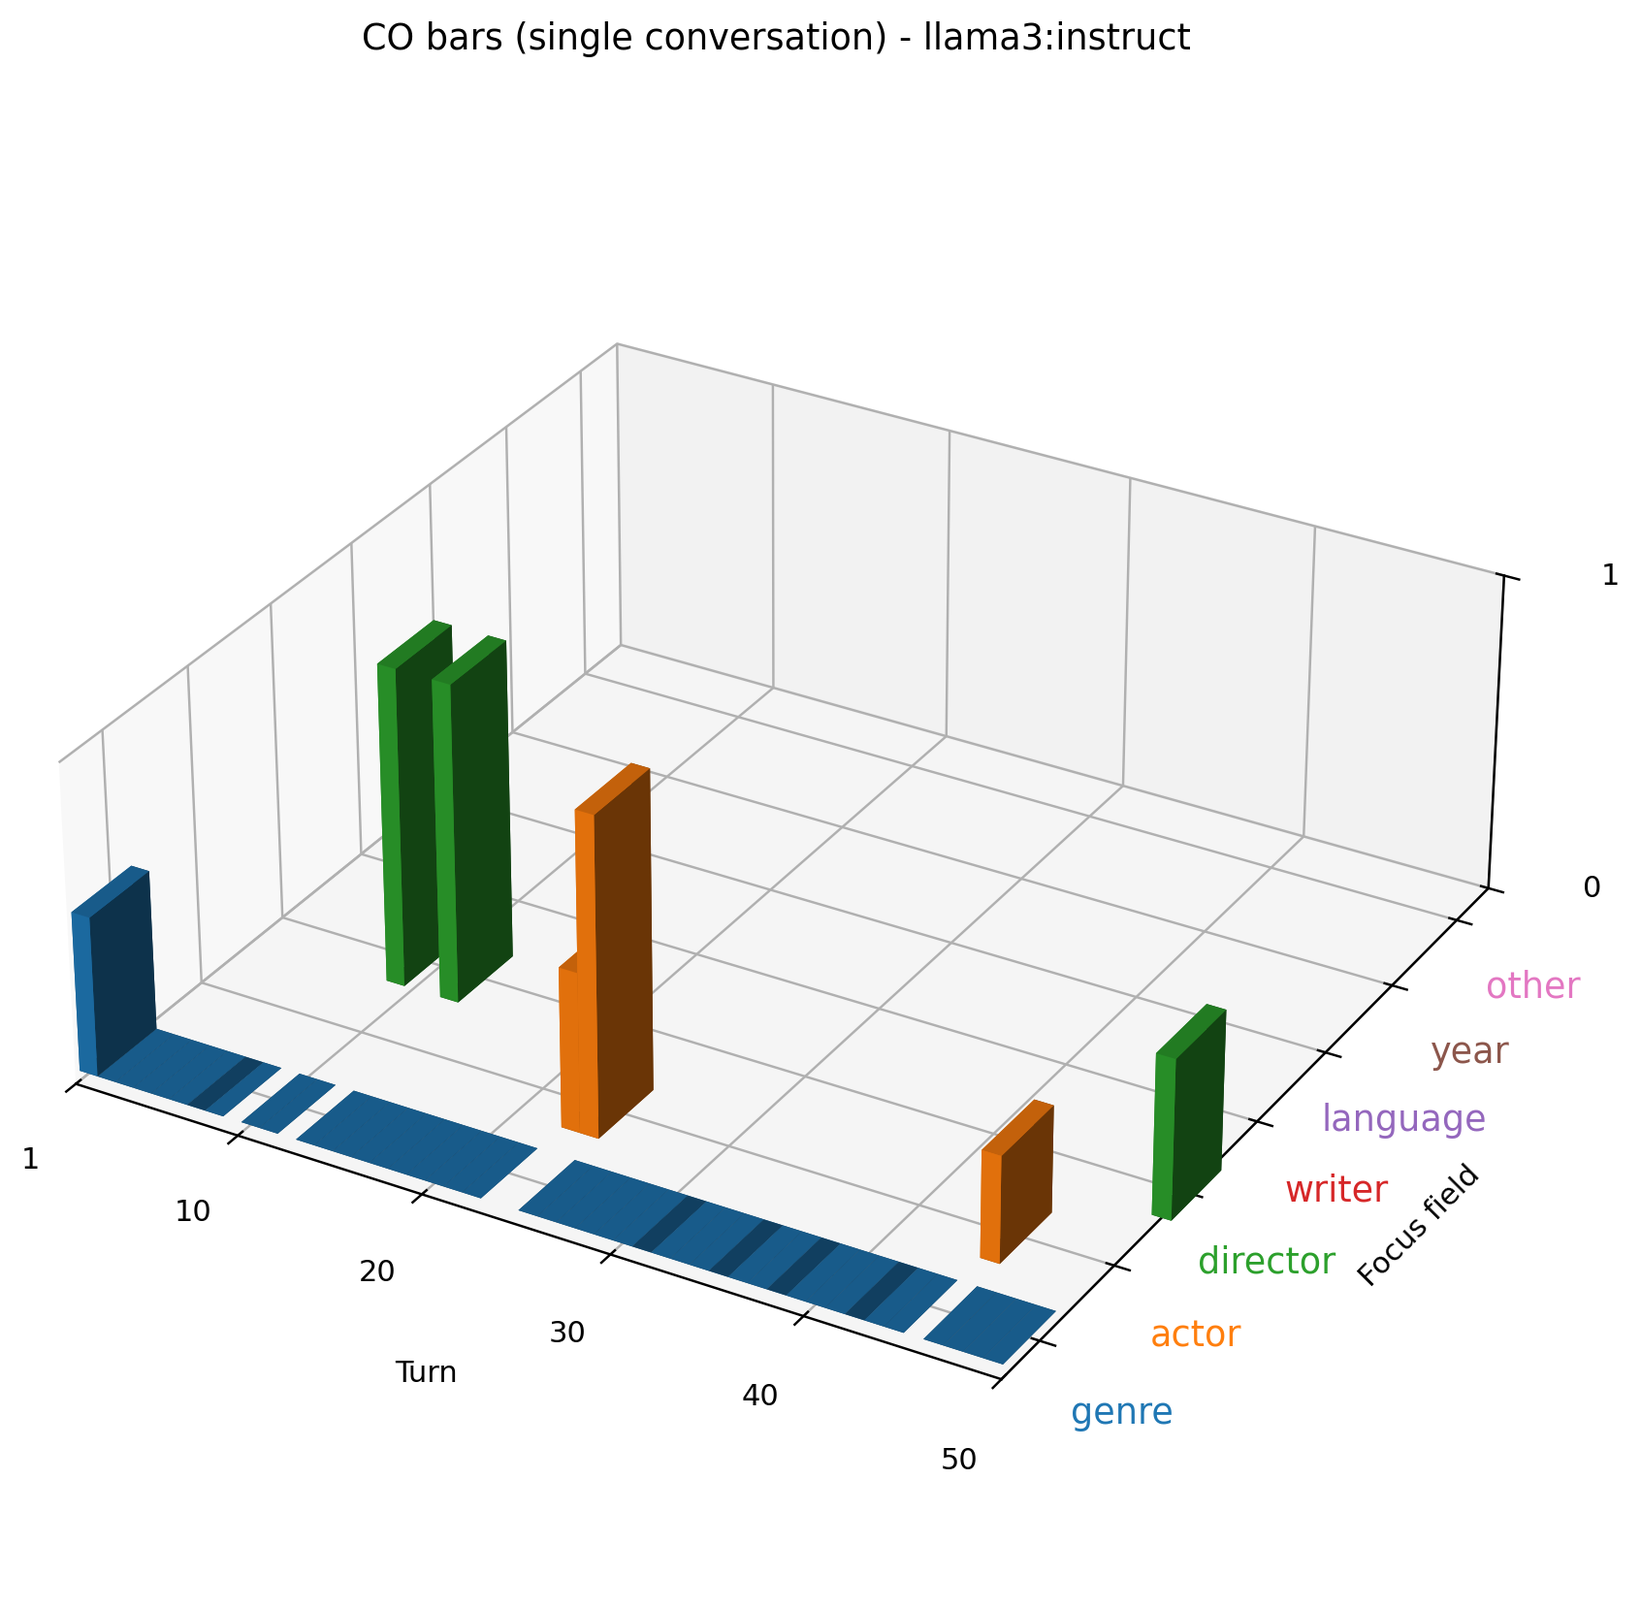
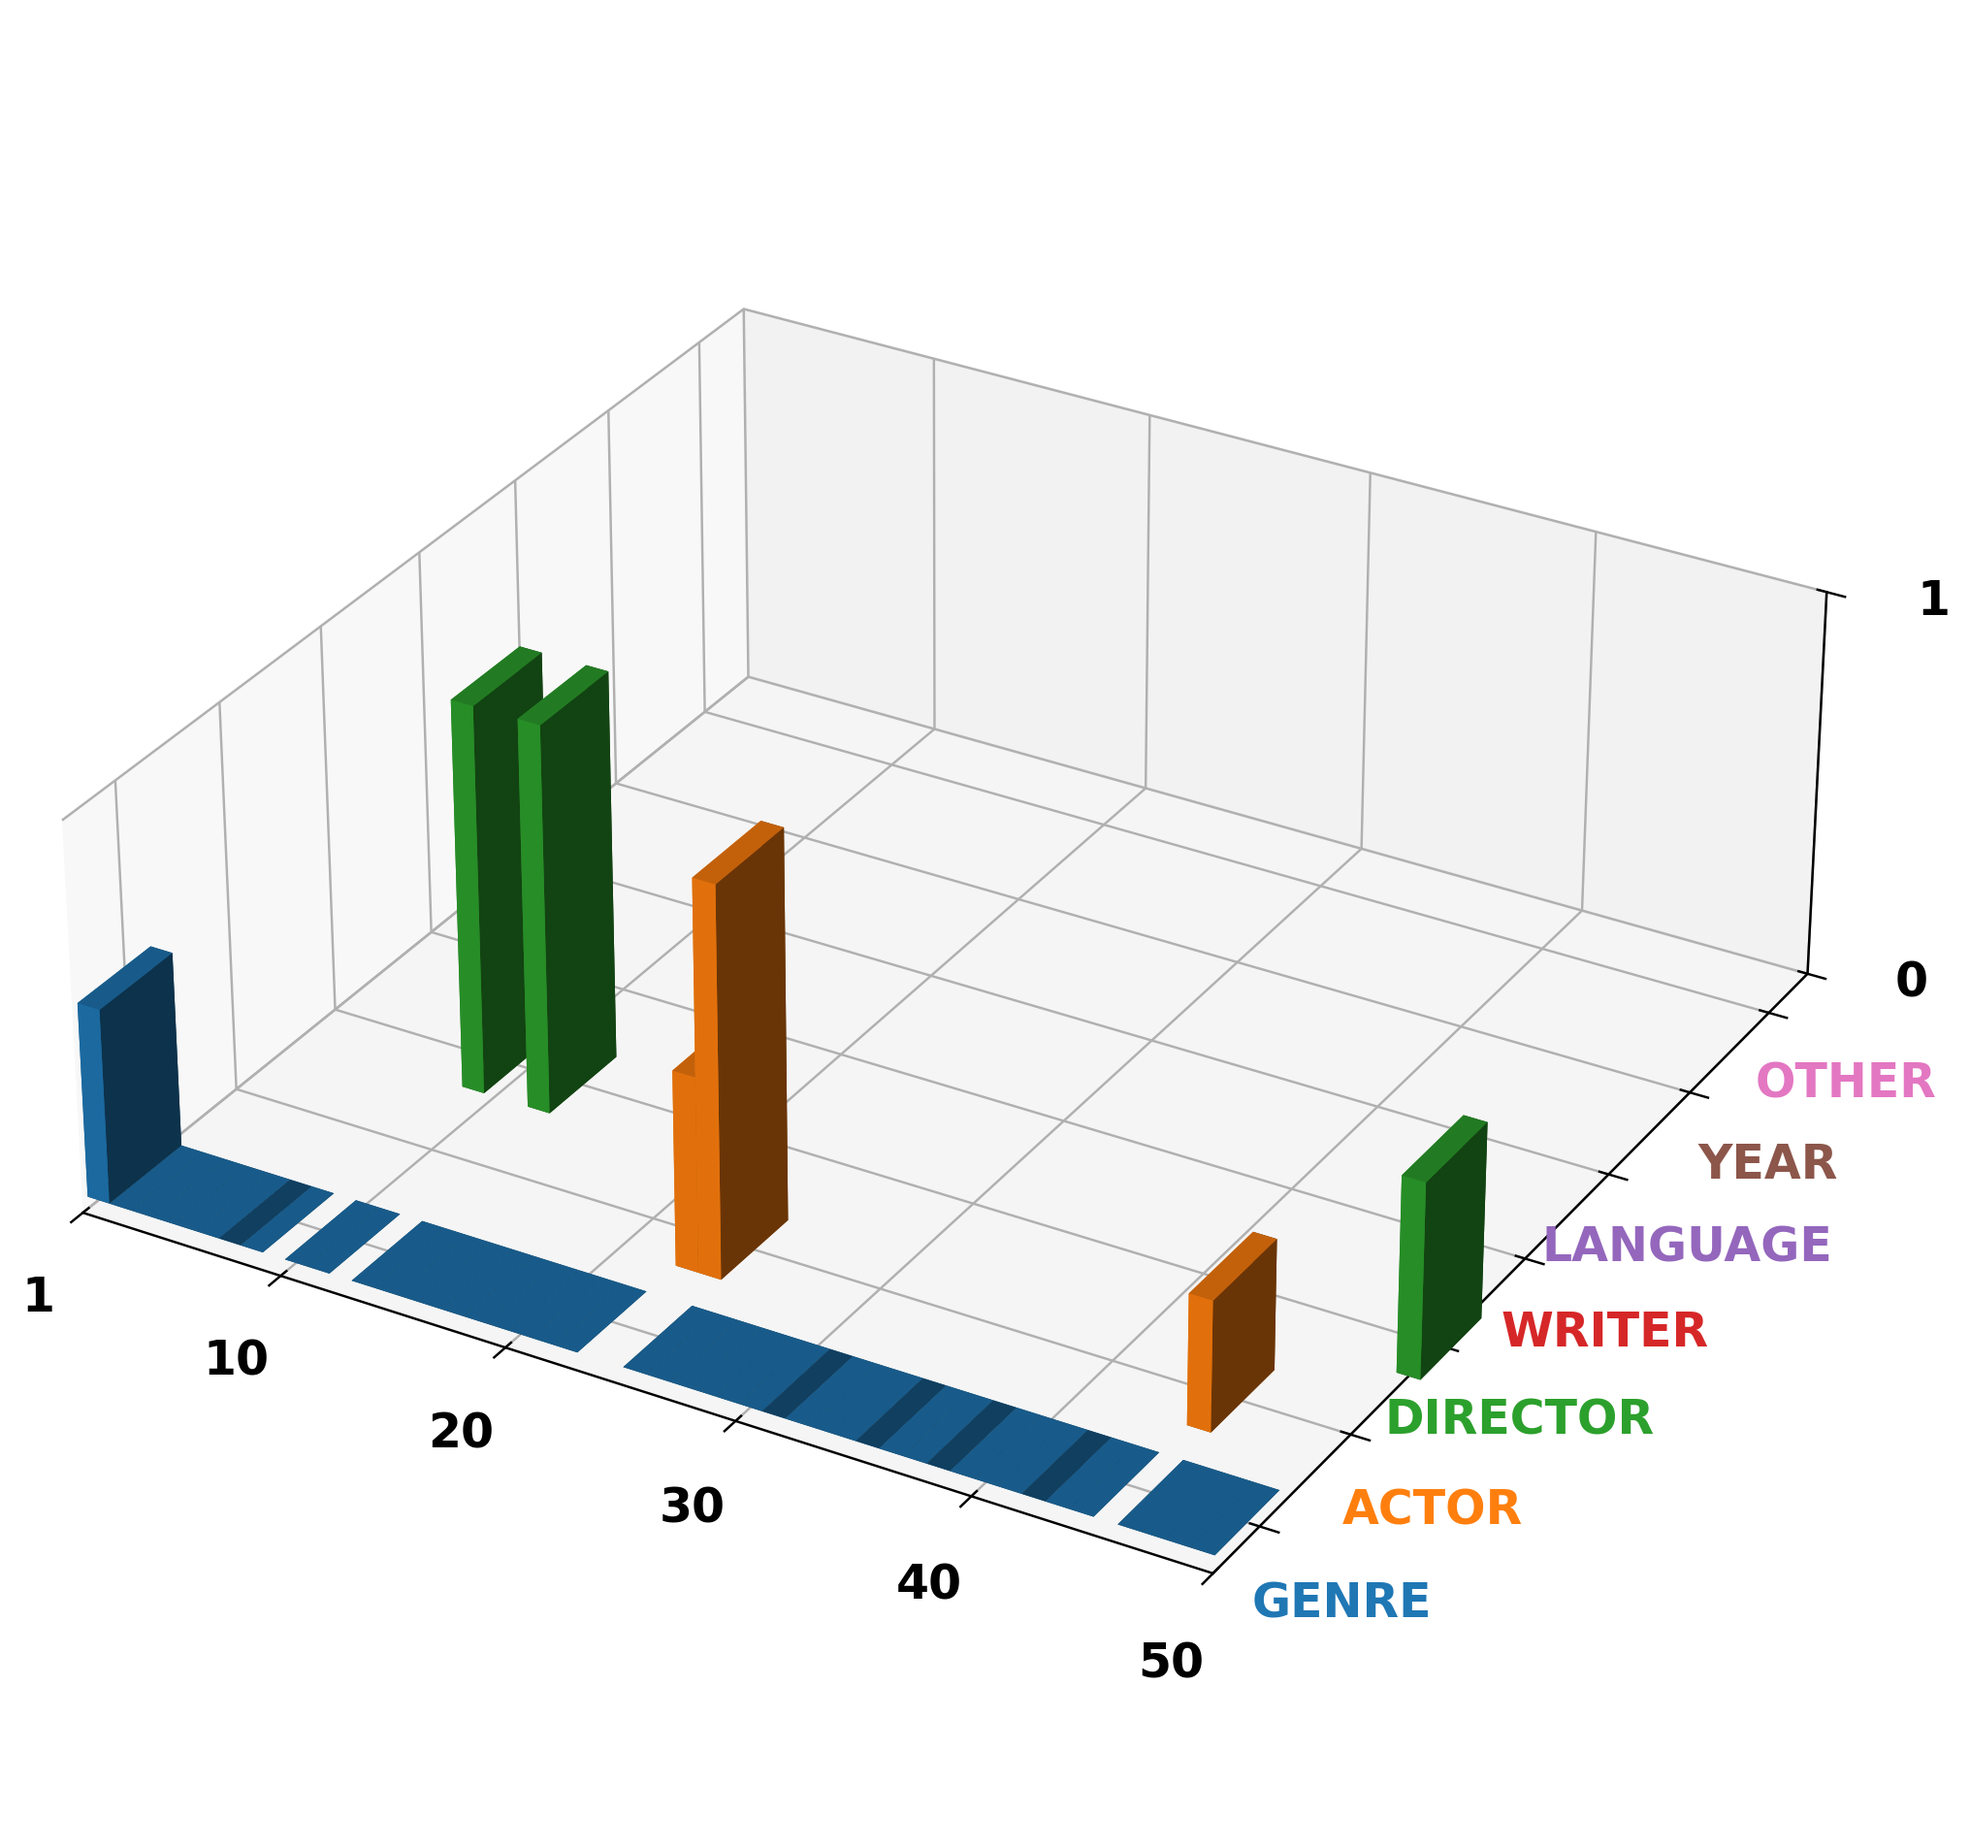
This version has updated tick labels for 3D plots.

diff --git a/crs_eval_integrated_updated_V4_updated/three_d_bars_run_0126.py b/crs_eval_integrated_updated_V4_updated/three_d_bars_run_0126.py
@@ -70,8 +70,6 @@ def _normalize_unit(z: np.ndarray) -> np.ndarray:
     if z_max <= z_min:
         return np.zeros_like(z)
     return (z - z_min) / (z_max - z_min)
-
-
 def _plot_bars(model: str, turns: int, fields: List[str], z: np.ndarray, label: str, out_path: str):
     if z.size == 0:
         return
@@ -114,34 +112,42 @@ def _plot_bars(model: str, turns: int, fields: List[str], z: np.ndarray, label: 
     ax.set_ylim(-0.5, float(n_fields - 0.5))
     ax.set_zlim(0.0, 1.0)
     ax.set_zticks([0.0, 1.0])
+    ax.set_zticklabels(["0", "1"], fontsize=16, fontweight="bold")
     try:
         ax.set_box_aspect((1.0, 1.0, 0.35))
     except Exception:
         pass
 
-    ax.set_xlabel("Turn", labelpad=24)
-    ax.set_ylabel("Focus field", labelpad=24)
-    ax.set_zlabel("Score (scaled 0-1)", labelpad=24)
-    ax.set_title(f"{label} bars (single conversation) - {model}", pad=20)
+    ax.set_xlabel("", labelpad=0)
+    ax.set_ylabel("", labelpad=0)
+    ax.set_zlabel("", labelpad=0)
 
     tick_count = min(6, max(3, turns // 5))
     xticks = np.linspace(1, max(2, turns), tick_count, dtype=int)
     ax.set_xticks(xticks)
-    ax.set_xticklabels([str(t) for t in xticks])
+    ax.set_xticklabels([str(t) for t in xticks], fontsize=16, fontweight="bold")
 
     field_idx = np.arange(n_fields)
     ax.set_yticks(field_idx)
-    ax.set_yticklabels(fields, fontsize=12)
+    ylabels = [f.upper() for f in fields]
+    ax.set_yticklabels(ylabels)
     for tick_label, idx in zip(ax.get_yticklabels(), field_idx):
         tick_label.set_color(cmap(norm(idx)))
+        tick_label.set_fontsize(16)
+        tick_label.set_fontweight("bold")
 
-    ax.tick_params(axis="x", pad=12)
-    ax.tick_params(axis="y", pad=14)
-    ax.tick_params(axis="z", pad=12)
+    ax.tick_params(axis="x", pad=12, labelsize=16)
+    ax.tick_params(axis="y", pad=14, labelsize=16)
+    ax.tick_params(axis="z", pad=12, labelsize=16)
 
     # Legend removed per request; focus field colors shown on tick labels.
 
-    plt.tight_layout()
+    # Reduce surrounding margins so the axes occupy more of the figure
+    try:
+        ax.dist = 7  # bring the camera a bit closer for a more 'zoomed' look
+    except Exception:
+        pass
+    fig.subplots_adjust(top=0.98, bottom=0.04, left=0.06, right=0.98)
     plt.savefig(out_path, dpi=220, bbox_inches="tight")
     plt.close()
     print(f"Saved: {out_path}")
